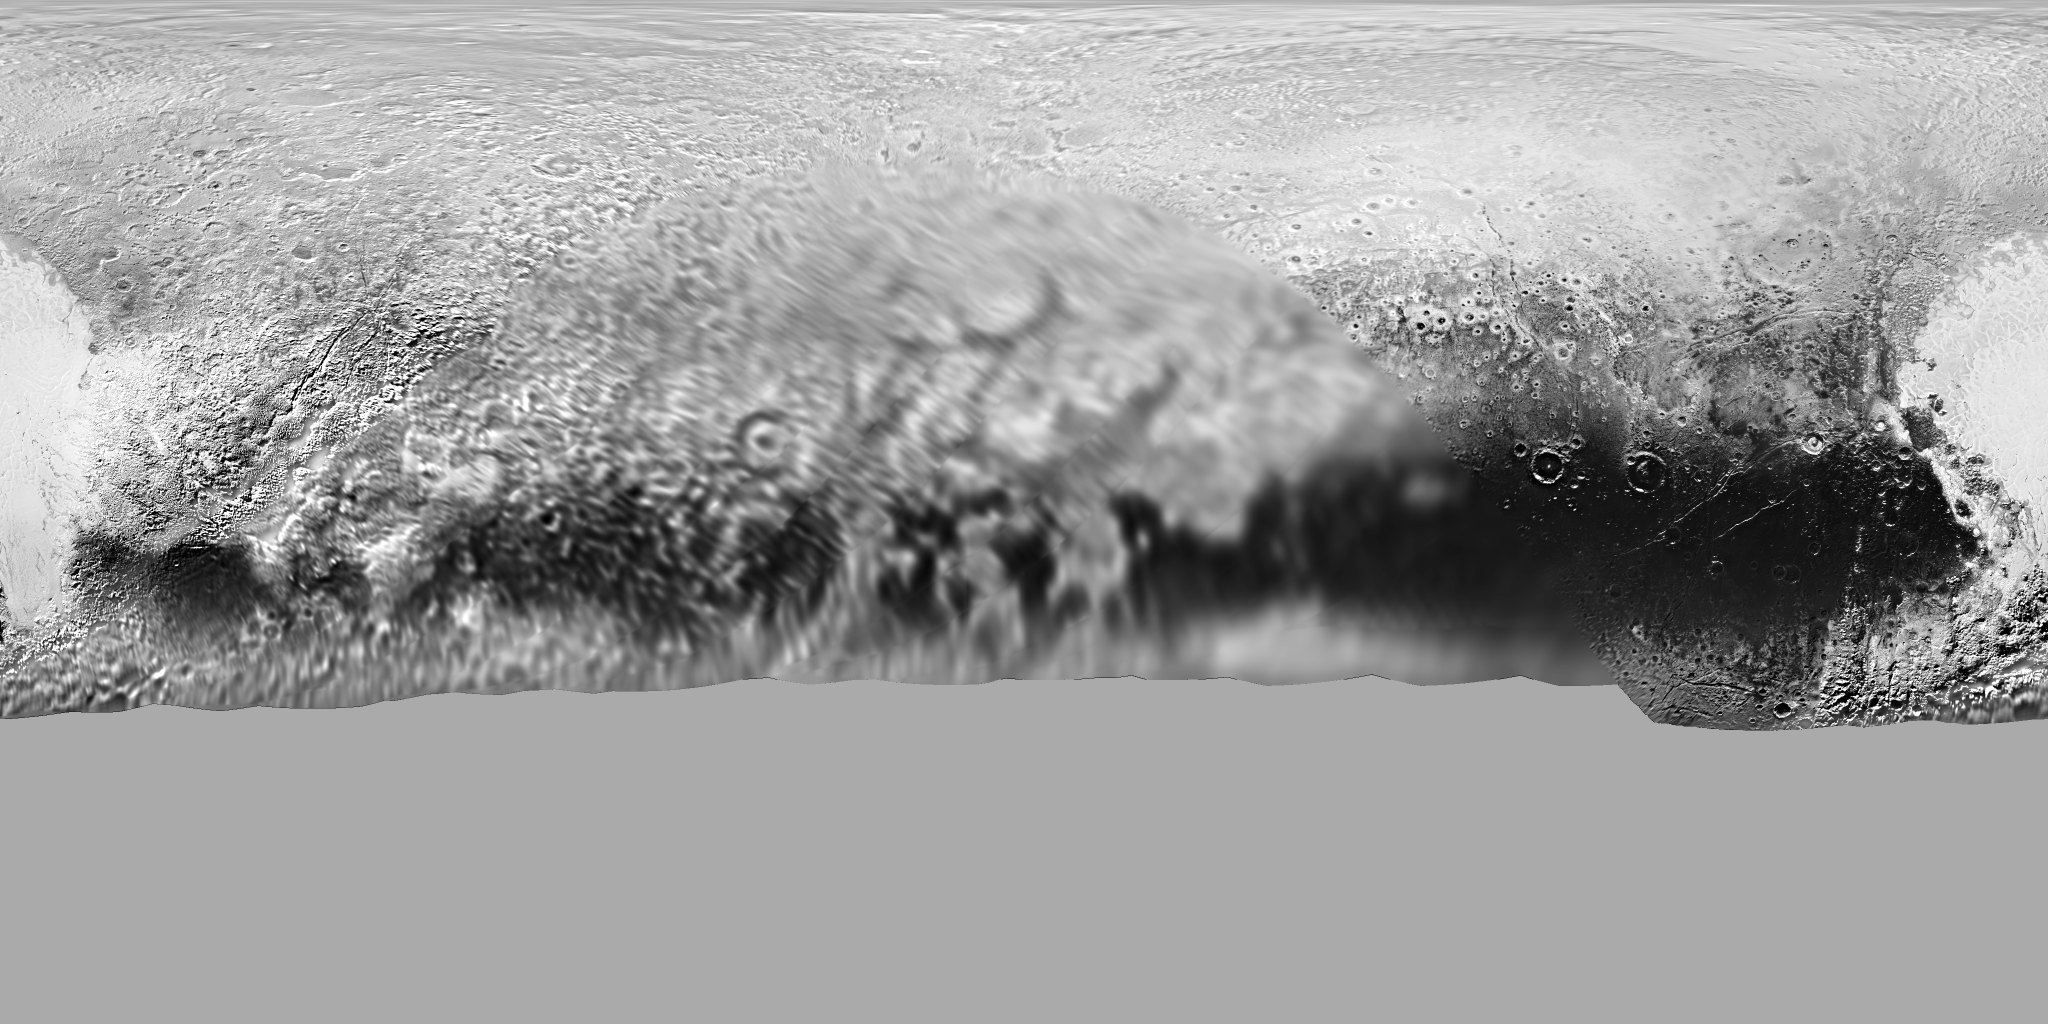
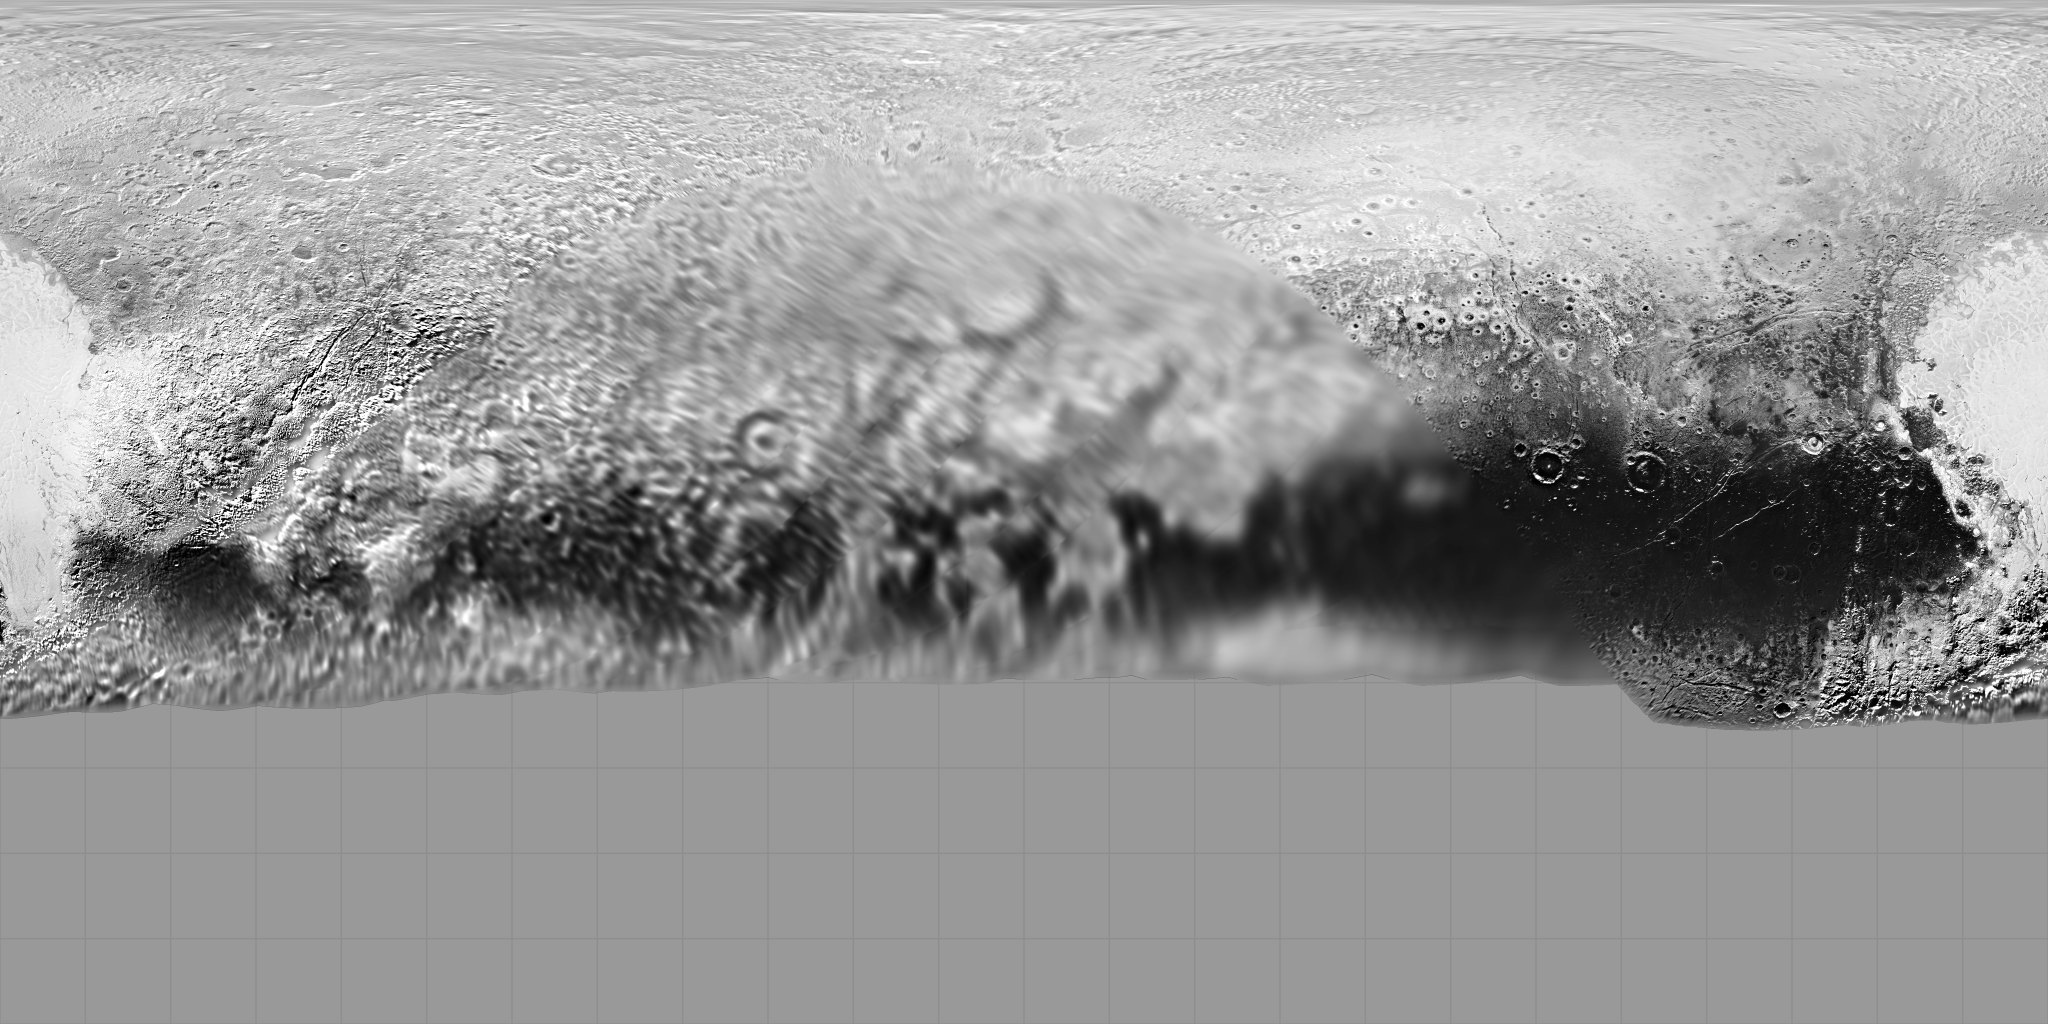
More worlds data: the parts never imaged as a grey grid, maps for Low, the published albedos, points checked against Horizons
The review found the worlds' maps keeping the mosaics' unimaged parts as flat fills (Triton's
north an olive cap with a jagged seam, Pluto's and Charon's far south grey) with nothing to say
so, and Pluto, Charon and Eris drawn at a typical albedo though theirs are published.

- maps.py: the mosaics' empty pixels are a neutral grey a little under the mean level with a
  faint grid every 15 degrees, the data fading into it over its own edge, and each map's share of
  the surface never imaged is in maps.json (Triton 0.33, Pluto 0.23, Charon 0.26); a 1024 x 512
  set beside the 2048 x 1024 one, for the Low detail level.
- build.py: Pluto's (0.52) and Charon's (0.42) geometric albedos from NSSDCA's Pluto fact sheet,
  which the build already reads; Eris's (0.96) from Sicardy et al. 2011, whose size it already
  uses. The manifest records the files' records of Juno, Hilda, Achilles and Ixion, and the
  Horizons fixture has their places on both dates, so the unit tests check points as quantised.
- sources.json: the maps' treatment, the albedos' sources, and Jupiter's mean longitude (JPL's
  approximate elements) for the unit tests' Trojan clouds.

diff --git a/scripts/smallbodies/maps.py b/scripts/smallbodies/maps.py
@@ -1,6 +1,7 @@
 """Writes the surface maps of the worlds the explorer can fly to (src/explore/worlds/bodies.ts) as
 public/assets/smallbodies/maps/<world>.jpg, 2048 x 1024 equirectangular (east longitude 0 at the
-middle, increasing to the right; north up), and maps.json: each map's source, credit and sha256.
+middle, increasing to the right; north up), and maps/1k/<world>.jpg, 1024 x 512 (the Low detail
+level's), and maps.json: each map's source, credit, sha256 and the share of the surface never imaged.
 
 Sources: the global mosaics of the USGS Astrogeology Science Center (in the public domain, from NASA
 missions' images): Dawn's of Ceres and Vesta, Galileo's and Voyager's of Io, Europa, Ganymede and
@@ -8,7 +9,12 @@ Callisto, Cassini's and Voyager's of Enceladus, Tethys, Rhea and Iapetus, Voyage
 New Horizons' of Pluto and Charon. Each is read with its ISIS label (its longitudes' range and
 direction), turned to east longitudes, resampled by area, and scaled so its mean linear brightness is
 MEAN: the explorer multiplies the map by the world's geometric albedo over MEAN, so a map gives the
-pattern and the albedo the level. Missing data (zeros) take the map's mean. Grey maps stay grey.
+pattern and the albedo the level. Grey maps stay grey.
+
+Missing data (zeros: the parts no spacecraft imaged, as Triton's northern half, Pluto's and Charon's
+far south) are not filled with a colour that could pass for a surface: they are a neutral grey a little
+under the mean level with a faint grid every GRID_DEG degrees, the data fading into it over FEATHER_PX (no
+jagged seam), and the explorer's readout says so (UniverseIllustration 'unimaged').
 
 Usage: .cache/venv-worlds/bin/python -I scripts/smallbodies/maps.py <download dir>
        (Pillow and numpy; downloads what is missing into <download dir>/maps)
@@ -31,8 +37,17 @@ OUT = ROOT / "public" / "assets" / "smallbodies" / "maps"
 BUCKET = "https://asc-pds-services.s3.us-west-2.amazonaws.com/mosaic/"
 USER_AGENT = "kun-fayakun/0.1 (educational; github.com/SwameeW/kun-fayakun)"
 WIDTH, HEIGHT = 2048, 1024
+SMALL = (1024, 512)
 MEAN = 0.4
 QUALITY = 86
+# Unimaged parts: their grey (a share of the mean level: a flat cap at the full mean draws the eye
+# as no surface does), the grid's spacing (degrees), its lines' width and depth (working pixels: twice
+# the output's; share darker), and how far the data fades into them (working pixels).
+GREY = 0.8
+GRID_DEG = 15
+GRID_LINE_PX = 3
+GRID_DEPTH = 0.16
+FEATHER_PX = 16
 Image.MAX_IMAGE_PIXELS = 2_000_000_000
 
 # World name -> (mosaic, credit).
@@ -84,6 +99,27 @@ def linear_to_srgb(x: np.ndarray) -> np.ndarray:
     return np.where(x <= 0.0031308, x * 12.92, 1.055 * x ** (1 / 2.4) - 0.055)
 
 
+def box_blur(x: np.ndarray, r: int) -> np.ndarray:
+    """The mean over a (2r + 1) square about each pixel (edges clamped; longitudes wrap)."""
+    p = np.pad(x, ((r + 1, r), (0, 0)), mode="edge")
+    c = np.cumsum(p, axis=0)
+    x = (c[2 * r + 1 :] - c[: -2 * r - 1]) / (2 * r + 1)
+    p = np.concatenate([x[:, -(r + 1) :], x, x[:, :r]], axis=1)
+    c = np.cumsum(p, axis=1)
+    return (c[:, 2 * r + 1 :] - c[:, : -2 * r - 1]) / (2 * r + 1)
+
+
+def unimaged(shape: tuple[int, int]) -> np.ndarray:
+    """The unimaged parts' shade (linear, the mean level): grey with a faint grid of meridians and parallels."""
+    rows, cols = shape
+    per_deg = cols / 360
+    lon = -180 + (np.arange(cols) + 0.5) / per_deg
+    lat = 90 - (np.arange(rows) + 0.5) / per_deg
+    near = lambda v: np.abs((v + GRID_DEG / 2) % GRID_DEG - GRID_DEG / 2) * per_deg  # noqa: E731
+    line = np.maximum(np.clip(GRID_LINE_PX / 2 + 0.5 - near(lon)[None, :], 0, 1), np.clip(GRID_LINE_PX / 2 + 0.5 - near(lat)[:, None], 0, 1))
+    return GREY * MEAN * (1 - GRID_DEPTH * line)
+
+
 def build(folder: Path, world: str, mosaic: str) -> dict[str, object]:
     tif = fetch(folder, f"{mosaic}.tif")
     lbl = label(fetch(folder, f"{mosaic}.lbl"))
@@ -112,21 +148,31 @@ def build(folder: Path, world: str, mosaic: str) -> dict[str, object]:
     valid = valid[:, index]
     lum = linear.mean(axis=2)
     mean = float(lum[valid].mean()) if valid.any() else 0.5
-    fill = linear[valid].mean(axis=0) if valid.any() else np.full(linear.shape[2], 0.5)
-    linear[~valid] = fill
     linear *= MEAN / max(mean, 1e-6)
+    # The unimaged parts: the data fades (inside its own edge) into the grey grid.
+    weight = np.where(valid, box_blur(valid.astype(np.float64), FEATHER_PX), 0.0)[:, :, None]
+    linear = weight * linear + (1 - weight) * unimaged(valid.shape)[:, :, None]
+    # The share of the surface never imaged (by area: rows weighted by the cosine of their latitude).
+    lat = (0.5 - (np.arange(valid.shape[0]) + 0.5) / valid.shape[0]) * np.pi
+    area = np.cos(lat)[:, None] * np.ones(valid.shape[1])[None, :]
+    share = float((area * ~valid).sum() / area.sum())
     result = Image.fromarray((linear_to_srgb(linear) * 255 + 0.5).astype(np.uint8).squeeze(), mode="L" if linear.shape[2] == 1 else "RGB")
-    result = result.resize((WIDTH, HEIGHT), Image.Resampling.BOX)
     OUT.mkdir(parents=True, exist_ok=True)
+    (OUT / "1k").mkdir(exist_ok=True)
     out = OUT / f"{world.lower()}.jpg"
-    result.save(out, "JPEG", quality=QUALITY, optimize=True, progressive=True)
+    small = OUT / "1k" / f"{world.lower()}.jpg"
+    result.resize((WIDTH, HEIGHT), Image.Resampling.BOX).save(out, "JPEG", quality=QUALITY, optimize=True, progressive=True)
+    result.resize(SMALL, Image.Resampling.BOX).save(small, "JPEG", quality=QUALITY, optimize=True, progressive=True)
     return {
         "file": f"maps/{out.name}",
+        "small": f"maps/1k/{small.name}",
         "colour": linear.shape[2] == 3,
         "mean": MEAN,
+        "unimaged": round(share, 3),
         "source": BUCKET + f"{mosaic}.tif",
         "sourceSha256": hashlib.sha256(tif.read_bytes()).hexdigest(),
         "sha256": hashlib.sha256(out.read_bytes()).hexdigest(),
+        "smallSha256": hashlib.sha256(small.read_bytes()).hexdigest(),
     }
 
 
@@ -142,7 +188,7 @@ def main() -> None:
         maps[world] = entry
         print(f"{world}: {entry['file']}")
     doc = {
-        "$comment": "Generated by scripts/smallbodies/maps.py. Surface maps of the worlds to fly to: 2048 x 1024, east longitude 0 at the middle, north up; mean linear brightness `mean` (the explorer scales them by the world's albedo).",
+        "$comment": "Generated by scripts/smallbodies/maps.py. Surface maps of the worlds to fly to: 2048 x 1024 (`small`: 1024 x 512, the Low detail level's), east longitude 0 at the middle, north up; mean linear brightness `mean` (the explorer scales them by the world's albedo); `unimaged`: the share of the surface never imaged, drawn as a grey grid.",
         "license": "Public domain (USGS Astrogeology mosaics of NASA mission images)",
         "maps": maps,
     }

diff --git a/scripts/smallbodies/build.py b/scripts/smallbodies/build.py
@@ -85,11 +85,12 @@ SPIN = {
     "134340": (132.993, -6.163, 302.695, 56.3625225),
 }
 # Sizes the SBDB does not carry, from the measurements that set them (stellar occultations, New
-# Horizons, thermal and light-curve fits): semi-axes in km, and the paper. Pluto's pole is the IAU's
-# (Archinal et al. 2018).
+# Horizons, thermal and light-curve fits): semi-axes in km, and the paper (and the visual geometric
+# albedo it measured, where the SBDB has none). Pluto's pole is the IAU's (Archinal et al. 2018);
+# Pluto's and Charon's albedos are NSSDCA's Pluto fact sheet's (fact_sheet).
 PUBLISHED = {
     "134340": {"axesKm": [1188.3, 1188.3, 1188.3], "pole": [132.993, -6.163], "ref": "Nimmo et al. 2017, Icarus 287, 12 (New Horizons)"},
-    "136199": {"axesKm": [1163, 1163, 1163], "ref": "Sicardy et al. 2011, Nature 478, 493 (stellar occultation)"},
+    "136199": {"axesKm": [1163, 1163, 1163], "albedo": 0.96, "ref": "Sicardy et al. 2011, Nature 478, 493 (stellar occultation; geometric albedo 0.96)"},
     "136108": {"axesKm": [1161, 852, 513], "ref": "Ortiz et al. 2017, Nature 550, 219 (stellar occultation)"},
     "136472": {"axesKm": [717, 717, 711], "ref": "Brown 2013, ApJ 767, L7"},
     "90377": {"axesKm": [497.5, 497.5, 497.5], "ref": "Pal et al. 2012, A&A 541, L6 (thermal)"},
@@ -113,9 +114,15 @@ FACT_SHEETS = {"mars": "marsfact", "jupiter": "joviansatfact", "saturn": "saturn
 # Neptune (its mean pole) and Pluto, the only equatorial frames used by the moons above.
 EQUATOR_POLES = {"uranus": (257.311, -15.175), "neptune": (299.36, 43.46), "w:Pluto": (132.993, -6.163)}
 
+# Points of the asteroid files whose places the unit tests check against Horizons (FIXTURE_OBJECTS): the
+# SBDB's designation and the name the fixture keeps them under; the manifest records each one's record.
+CHECKS = {"3": "Juno", "153": "Hilda", "588": "Achilles", "28978": "Ixion"}
 # Horizons fixtures for tests/unit/small-bodies.spec.ts: two dates, and what each object is checked as.
 FIXTURE_DATES = (2461339.5, 2464328.5)  # 2026-10-26.0 and 2035-01-01.0 TDB
+# Juno, Hilda, Achilles (a Trojan) and Ixion (beyond Neptune) are among the asteroid files' points (CHECKS):
+# their records, as quantised, are checked against Horizons too.
 FIXTURE_OBJECTS = {
+    "Juno": ("'3;'", "500@10"), "Hilda": ("'153;'", "500@10"), "Achilles": ("'588;'", "500@10"), "Ixion": ("'28978;'", "500@10"),
     "Ceres": ("'1;'", "500@10"), "Vesta": ("'4;'", "500@10"), "Hektor": ("'624;'", "500@10"),
     "Eris": ("'136199;'", "500@10"), "67P": ("'DES=67P;CAP;NOFRAG;'", "500@10"), "1P": ("'DES=1P;CAP;NOFRAG;'", "500@10"),
     "Io": ("'501'", "500@599"), "Titan": ("'606'", "500@699"), "Triton": ("'801'", "500@899"), "Charon": ("'901'", "500@999"),
@@ -316,6 +323,8 @@ def small_world(folder: Path, des: str, kind: str) -> tuple[dict, dict[str, str]
         world["axesKm"] = published["axesKm"]
         world["radiusKm"] = round(sum(published["axesKm"]) / 3, 1)
         world["sizeRef"] = published["ref"]
+        if "albedo" in published and world["albedo"] is None:
+            world["albedo"] = published["albedo"]
         if "pole" in published:
             world["pole"] = published["pole"]
     if world["radiusKm"] is None and world["H"] is not None:
@@ -438,6 +447,14 @@ def fact_sheet(folder: Path, sheet: str) -> tuple[dict[str, dict], dict[str, str
             if len(row) >= 6:
                 d = numbers(row[4])
                 out[re.sub(r"\s*\(.*$", "", row[0])] = {"axesKm": [x / 2 for x in d] if len(d) == 3 else None, "albedo": num(row[5])}
+        # Pluto's own (the first table's Pluto column) and Charon's (in the figures that follow "Charon (P1)").
+        first = {r[0]: r for r in tables[0] if r}
+        out["Pluto"] = {"axesKm": None, "albedo": num(first["Geometric albedo"][1])}
+        text = re.sub(r"\s+", " ", html.unescape(re.sub(r"<[^>]+>", " ", data.decode("latin-1"))))
+        charon = re.search(r"Charon \(P1\).*?Geometric Albedo ([\d.]+)", text)
+        if not charon:
+            raise SystemExit("plutofact: no albedo for Charon")
+        out["Charon"] = {"axesKm": None, "albedo": float(charon.group(1))}
     else:
         # The satellite sheets' first table: mass, radius (or three radii), density, albedo. Only the first
         # row of each name (the second table lists the orbits by the same names).
@@ -742,9 +759,12 @@ def main() -> None:
     pluto_gm = re.search(r"Satellites of Pluto Planet GM: ([\d.]+)", phys_text)
     if not pluto_gm:
         raise SystemExit("sats-phys: no GM for Pluto")
+    pluto_sheet, _ = fact_sheet(folder, "plutofact")
     for w in worlds:
         if w["id"] == "w:Pluto":
             w["gm"] = float(pluto_gm.group(1))
+            if w["albedo"] is None:
+                w["albedo"] = pluto_sheet["Pluto"]["albedo"]
     ring_list, ring_queries = rings(folder)
     queries.extend(ring_queries)
     worlds_doc = {
@@ -761,6 +781,8 @@ def main() -> None:
         "classes": list(CLASSES),
         "counts": {c: counts[c] for c in CLASSES if counts[c]},
         "tiers": tiers,
+        # (Each record's index in the files, cumulative.)
+        "checks": {name: next(k for k, r in enumerate(rows) if str(r[0]) == des) for des, name in CHECKS.items()},
         "comets": {"file": "comets.json", "count": len(comet_rows), "sha256": sha256(blob)},
         "worlds": {"file": "worlds.json", "count": len(worlds), "sha256": sha256((OUT / "worlds.json").read_bytes())},
         "sources": ["jpl-sbdb", "jpl-sat-elements", "jpl-sat-physical", "nssdca-fact-sheets"],
